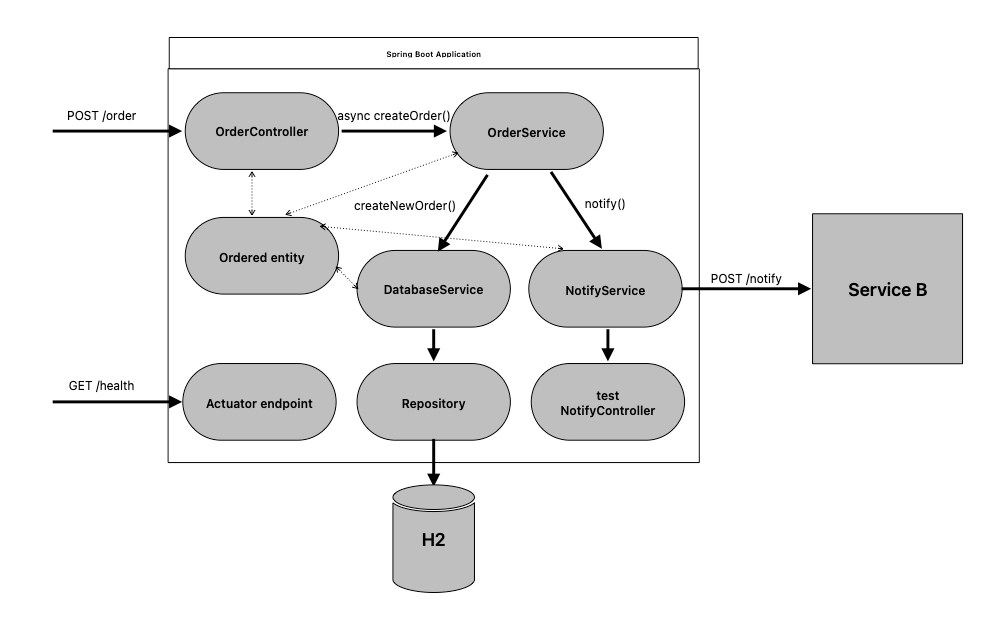
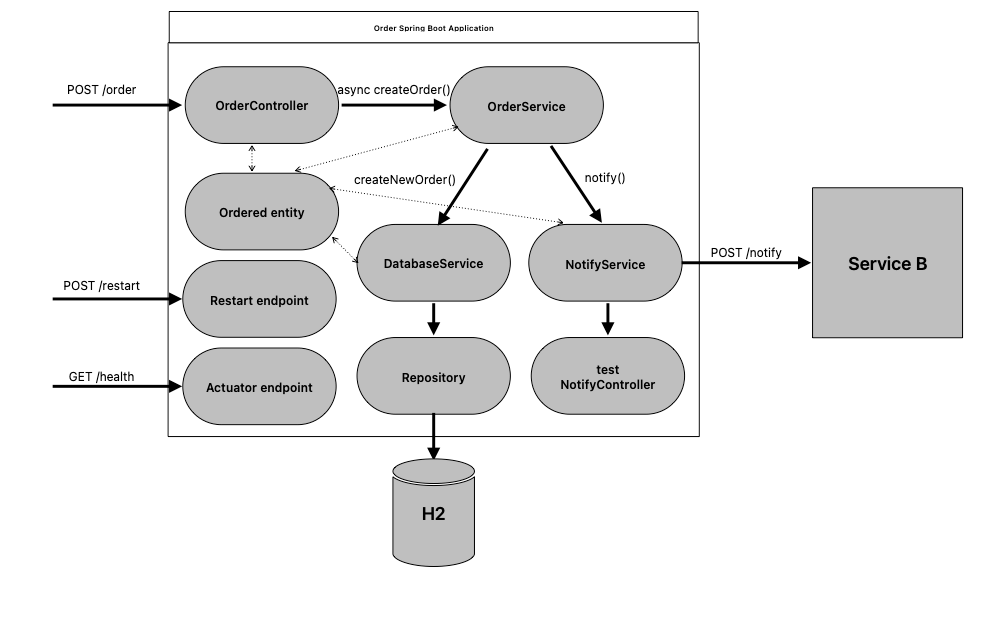
update readme

diff --git a/README.md b/README.md
@@ -76,7 +76,50 @@ public ResponseEntity<String> notifyFailed(Ordered ordered) {
 
 Various possible inconsistencies system failure may introduce could be handled by highest level of isolation and physical transaction per method. 
 
+Monitoring Service A could be achieved by Spring Boot Actuator endpoints, for example by activating liveness and readiness endpoints in [application.yml](https://github.com/dhajtman/casestudy-api/blob/master/src/main/resources/application.yml)
+```yaml
+management:
+  endpoints:
+    web:
+      exposure:
+        include: health,info,metrics
+      base-path: /actuator
+  endpoint:
+    health:
+      probes:
+        enabled: true
+      show-details: always
+  health:
+    livenessState:
+      enabled: true
+    readinessState:
+      enabled: true
+```
+These endpoints can be used for kubernetes liveness and readiness probes
+```yaml
+livenessProbe:
+  httpGet:
+    path: /actuator/health/liveness
+    port: 8000
+    initialDelaySeconds: 3
+    periodSeconds: 3
+```
+Service A can also be monitored and restarted by separate service with exposed [RestartController](https://github.com/dhajtman/casestudy-api/blob/master/src/main/java/com/casestudy/api/controller/RestartController.java) restartApp method.
 
+Additionally, when running Service A like Linux service in case of failure it can be restarted by linux underlying operating system automatically
+```
+[Unit]
+Description=Application #use your application name
+
+[Service]
+User=root #use user with restricted permissions
+Type=simple
+ExecStart=/usr/bin/java -jar /path/to/jar #change java path and application path
+Restart=always
+
+[Install]
+WantedBy=multi-user.target
+```
 
 ## Implemented APIs
 Assume there is ordered database and you want to create a REST API to access them.
